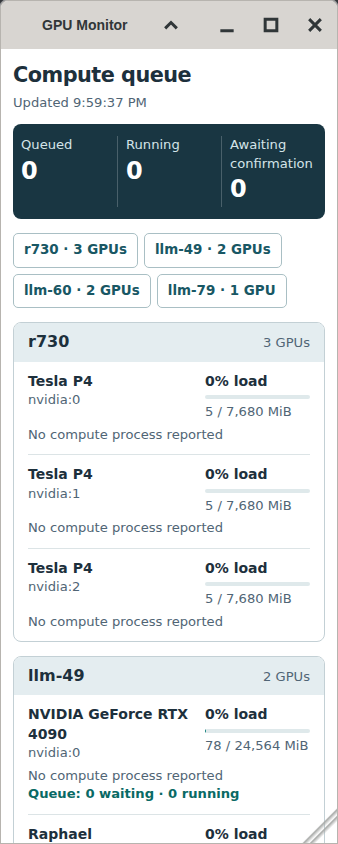
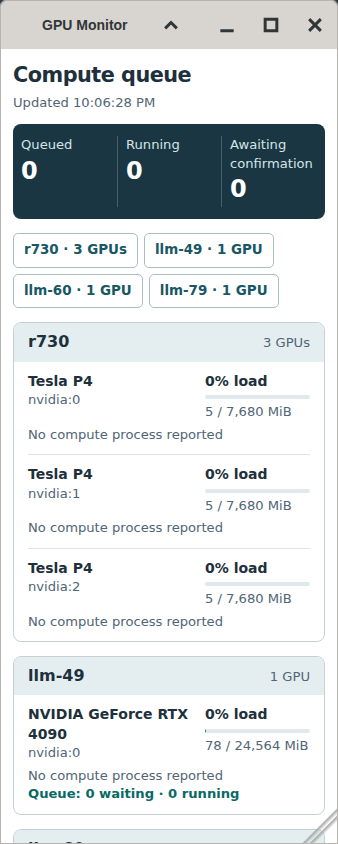
Hide Ryzen display adapters from the worker view and clarify unknown model status

diff --git a/README.md b/README.md
@@ -2,11 +2,11 @@
 
 System Tools → GPU Monitor shows the latest GPU sample and compute queue totals. Opening a window requests the current sample. Every refresh replaces that sample. The gateway shares one snapshot for 20 seconds across signed-in viewers. The sampler keeps only its latest reading in the user runtime directory. Queue records used to deliver jobs are separate from telemetry.
 
-![Four worker hosts and eight GPUs in the signed-in WebOS preview](screenshots/desktop.png)
+![Four worker hosts and six discrete GPUs in the signed-in WebOS preview](screenshots/desktop.png)
 
 ### Browser review
 
-Verified in a signed-in WebOS development preview using telemetry from all four hosts. At each viewport, the app opened from System Tools, showed eight GPUs, exposed every host shortcut above the list, navigated to the last host, and closed. The content fit the window horizontally. Phone and tablet used Chromium touch emulation. Physical devices, Safari, and the hosted ksu.codes release still need testing.
+Verified in a signed-in WebOS development preview using telemetry from all four hosts. At each viewport, the app opened from System Tools, showed six discrete GPUs, exposed every host shortcut above the list, navigated to the last host, and closed. The two Ryzen integrated display adapters are omitted from the cards and host counts. The content fit the window horizontally. Phone and tablet used Chromium touch emulation. Physical devices, Safari, and the hosted ksu.codes release still need testing.
 
 [Phone (390 × 844)](screenshots/phone.png) · [Tablet (820 × 1180)](screenshots/tablet.png) · [1080p](screenshots/desktop.png) · [4K](screenshots/4k.png)
 
